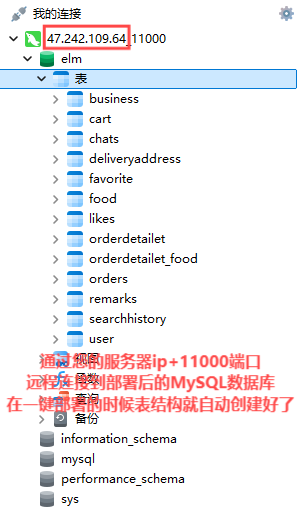
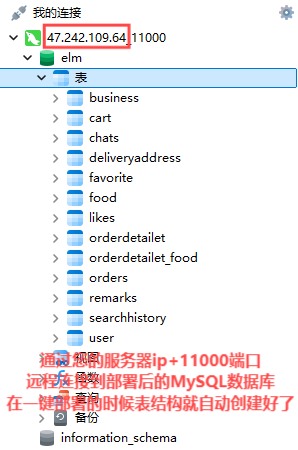
update_elm_easy_deploy

Changed region(s): [[0.0, 0.0, 0.9966, 1.0], [0.0302, 0.0311, 0.0604, 0.0933], [0.9362, 0.0311, 0.9664, 0.0622]]

diff --git a/README.md b/README.md
@@ -12,17 +12,22 @@ sudo curl -fsSL -o ~/deploy.sh https://www.yangyuxin.cn/elm/boot/deploy.sh && su
 
 ### 在一台新的linux机器上执行一键部署命令(这里推荐使用非大陆服务器，访问DOCKER更快。如果是大陆服务器访问DOCKER，运行我的一键部署脚本会自动配置加速镜像，但访问速度仍稍慢些)
 
-![Snipaste_2025-03-09_22-14-05](assets/Snipaste_2025-03-09_22-14-05.png)
+<div style="display: flex; justify-content: space-between;">
+  <img src="assets/Snipaste_2025-03-09_22-14-05.png" alt="TJU-ELM" style="max-width: 49%; height: auto;">
+  <img src="assets/Snipaste_2025-03-09_19-06-32.png" alt="TJU-ELM" style="max-width: 49%; height: auto;">
+</div>
 
-![Snipaste_2025-03-09_19-06-32](assets/Snipaste_2025-03-09_19-06-32.png)
+## 部署后可以直接
 
-## 部署后可以直接通过您的服务器的公网ip+10000端口访问到我们的ELM全栈项目
+## ① 通过您的服务器的公网ip+10000端口访问到我们的ELM全栈项目
 
-![Snipaste_2025-03-09_19-07-24](assets/Snipaste_2025-03-09_19-07-24.png)
+## ② 通过您的服务器ip+11000端口，远程连接到部署后的MySQL数据库，在一键部署的时候表结构就自动创建好了
 
-## 通过您的服务器ip+11000端口，远程连接到部署后的MySQL数据库，在一键部署的时候表结构就自动创建好了
+<div style="display: flex; justify-content: space-between;">
+  <img src="assets/Snipaste_2025-03-09_19-07-24.png" alt="项目网站" style="width: 48%; height: auto;">
+  <img src="assets/Snipaste_2025-03-09_19-07-58.png" alt="项目数据库MySQL" style="width: 48%; height: auto;">
+</div>
 
-![Snipaste_2025-03-09_19-07-58](assets/Snipaste_2025-03-09_19-07-58.png)
 
 ## 3. 项目总效果图
 
